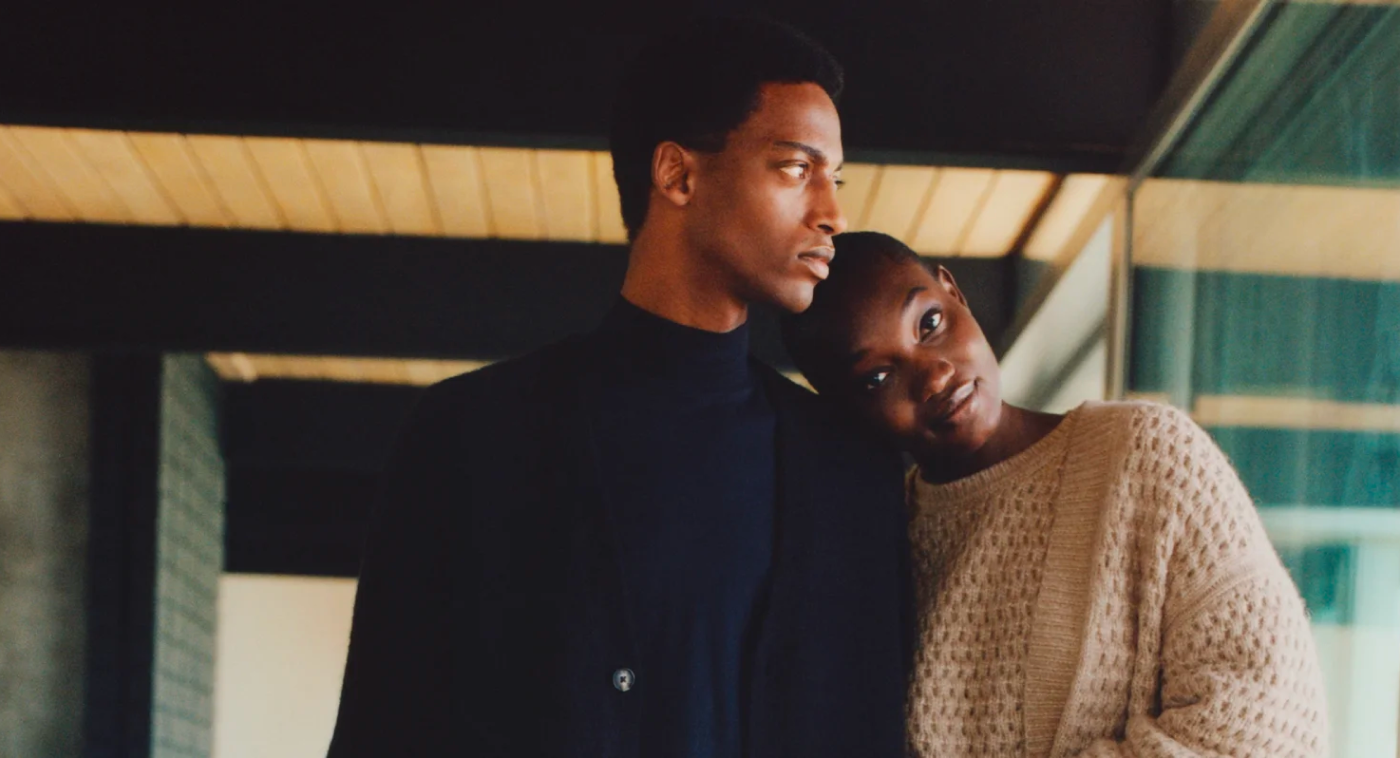
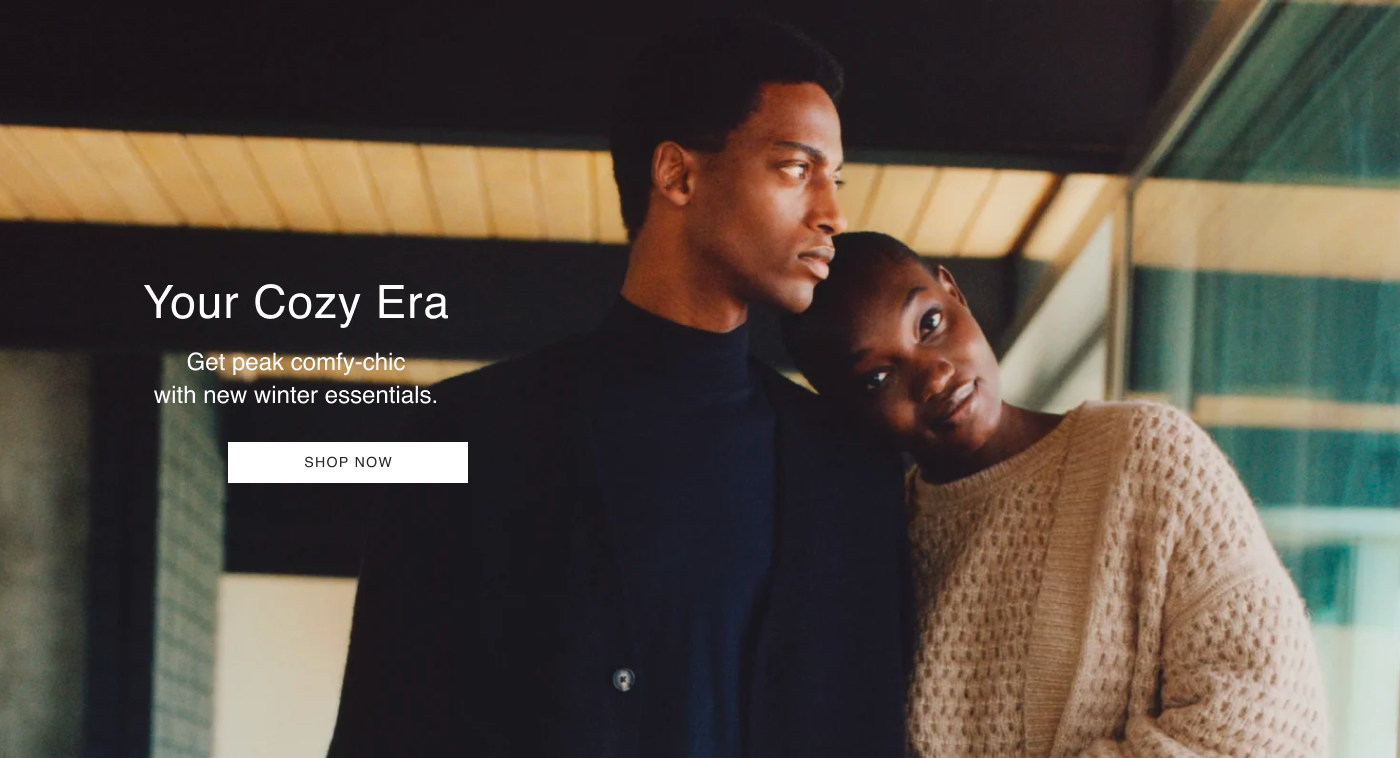
working on home component

Changed region(s): [[0.0921, 0.4551, 0.3071, 0.5462], [0.0921, 0.3641, 0.3379, 0.4248], [0.1536, 0.5765, 0.3379, 0.6372]]

diff --git a/FRONTEND/src/Components/Cart/Cart.module.css b/FRONTEND/src/Components/Cart/Cart.module.css
@@ -35,7 +35,6 @@
 .cards {
     /* background-color: yellow; */
     display: flex;
-    flex-direction: column;
     margin-top: 2vh;
     padding: 10px;
     width: calc(100% - 20px);
@@ -43,9 +42,10 @@
 }
 .card {
     display: flex;
-    background-color: #d8e6f3fd;
+    /* background-color: #d8e6f3fd; */
+    background-color: rgba(128, 128, 128, 0.357);
     border-radius: 1vh;
-    box-shadow: 0px 0px 50px -25px black;
+    box-shadow: 0px 0px 50px -35px black;
     padding: 10px;
 }
 .sub_div1 {
@@ -125,7 +125,7 @@
     column-gap: 16px
 }
 .decrease , .increase{
-    background-color: rgb(193, 192, 192);
+    background-color: rgb(255, 255, 255);
     display: flex;
     justify-content: center;
     align-items: center;
@@ -134,7 +134,7 @@
     border: none;
     width: 80px;
     height: 20px;
-    border-radius: 2px;
+    border-radius: 100px;
     box-shadow: 0px 0px 30px -8px black;
 }
 .decrease:hover , .increase:hover{
@@ -158,6 +158,7 @@
     text-align: center;
     flex-direction: column;
     border-radius: 0.5vh;
+    margin: 10px;
 }
 .total .totalCost {
     font-weight: 200 ;
@@ -181,11 +182,62 @@
     transition: 0.3s;
     background-color: #1b1b1bfd;
 }
-
+@media screen and (min-width: 1023px) {
+    .cards {
+        flex-direction: column;
+    }
+}
 /*MEDIA QUERY FOR TABS WITH SHORT SCREEN LENGTHS*/
-@media (max-width: 1023px) {
+@media screen and (max-width: 1023px) {
     .content {
         margin-top: 9vh;
+    }
+    .cards {
+        /* background-color: yellow; */
+        display: flex;
+        flex-wrap: wrap;
+        column-gap: 20px;
+        row-gap: 20px;
+        justify-content: center;
+
+    }
+    .card {
+        /* background-color: red; */
+        flex-direction: column;
+        width: 300px;
+    }
+    /* .sub_div1 {
+        background-color: blue;
+    } */
+    .sub_div2 {
+        /* background-color: darkblue; */
+        width: 100%;
+        display: flex;
+        flex-direction: column;
+    }
+    /* .child1{
+        background-color: green;
+    } */
+    .child1_box1{
+        /* background-color: aqua; */
+        width: 80%;
+    }
+    .child1_box2{
+        width: 20%;
+        /* background-color: black; */
+    }
+    .child2{
+        flex-direction: column;
+    }
+    .child2_box1{
+        /* background-color: green; */
+        width: 100%;
+    }
+    .child2_box2{
+        /* background-color: black; */
+        width: 100%;
+        justify-content: center;
+        margin-top: 8px;
     }
 }
 /*MEDIA QUERY FOR PHONES*/
@@ -199,4 +251,8 @@
     .content{
         margin-top: 7vh;
     }
+}
+
+.price:nth-child(2) {
+    color: rgb(255, 102, 0);
 }

diff --git a/FRONTEND/src/Components/Cart/Cart.jsx b/FRONTEND/src/Components/Cart/Cart.jsx
@@ -92,7 +92,7 @@ const Cart = () => {
                     <div className={styles.child2}>
                       <div className={styles.child2_box1}>
                         <h2 className={styles.price}><span className={styles.span}>₹ {item.product.originalPrice}</span>  | ₹{(item.product.originalPrice - (item.product.originalPrice * (item.product.discountPercent / 100))).toFixed(2)}</h2>
-                        <h2 className={styles.price}>{item.product.discountPercent}%</h2>
+                        <h2 className={styles.price}>{item.product.discountPercent}% Off</h2>
                       </div>
                       <div className={styles.child2_box2}>
                         <button className={styles.decrease}>-</button>1<button className={styles.increase}>+</button>
@@ -102,12 +102,11 @@ const Cart = () => {
                 </div>
               );
             })}
+          </div>
             <div className={styles.total}>
                 <h1 className={styles.totalCost}>TOTAL COST : ₹ {totalCost}</h1> 
                 <button className={styles.paynow}>BUY NOW</button>
             </div>
-          </div>
-
         </div>
         <Footer/>
       </div>

diff --git a/FRONTEND/src/Components/Home/Y/Y.jsx b/FRONTEND/src/Components/Home/Y/Y.jsx
@@ -83,12 +83,7 @@ const Y = () => {
           </div>
 
           <div className={styles.shop_now}>
-            <img src="./Background.png" alt="background image" />
-            <div className={styles.shop_now_sub_div}>
-              <h1>Your Cozy Era</h1>
-              <p>Get peak comfy-chic with new winter essentials.</p>
-              <button><Link to="category" smooth={true} duration={100}>SHOP NOW</Link></button>
-            </div>
+            <Link to="category" smooth={true} duration={100} ><img src="./Background.png" alt="background image" className={styles.shop_now_image}/></Link>
           </div>
 
 

diff --git a/FRONTEND/src/Components/Home/Home.jsx b/FRONTEND/src/Components/Home/Home.jsx
@@ -78,12 +78,7 @@ const Home = () => {
         </div>
 
         <div className={styles.shop_now}>
-          <img src="./Background.png" alt="background image" />
-          <div className={styles.shop_now_sub_div}>
-            <h1>Your Cozy Era</h1>
-            <p>Get peak comfy-chic with new winter essentials.</p>
-            <button><Link to="category" smooth={true} duration={100}>SHOP NOW</Link></button>
-          </div>
+          <Link to="category" smooth={true} duration={100} ><img src="./Background.png" alt="background image" /></Link>
         </div>
 
 

diff --git a/FRONTEND/src/Components/Home/Home.module.css b/FRONTEND/src/Components/Home/Home.module.css
@@ -293,17 +293,16 @@
 
 .shop_now img{
     width: 100%;
-
 }
 .shop_now_sub_div{
     background-color: yellowgreen;
+    position:absolute;
     z-index: 1;
     color: white;
-    width: 80%;
-    display: flex;
-    flex-direction: column; 
+    width: 100%;
+    height: 400px;
     display: none;
-    /* margin-top: -70vh; */
+    flex-direction: column; 
 }
 
 .shop_now_sub_div p{

diff --git a/FRONTEND/src/Components/Footer/Footer.module.css b/FRONTEND/src/Components/Footer/Footer.module.css
@@ -1,6 +1,7 @@
 .contanier {
     width: 96%;
-    background-color: #1F2421;
+    /* background-color: #1F2421; */
+    background-color: #000000;
     margin: 0vh auto;
     display: flex;
     padding: 2%;
